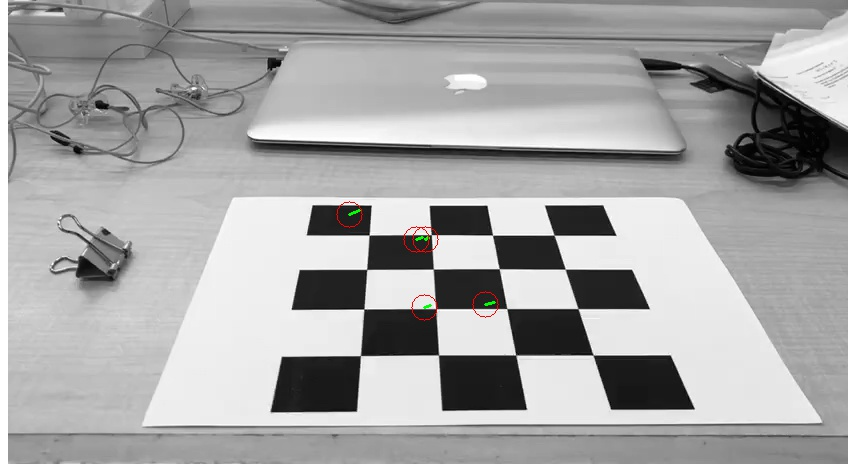
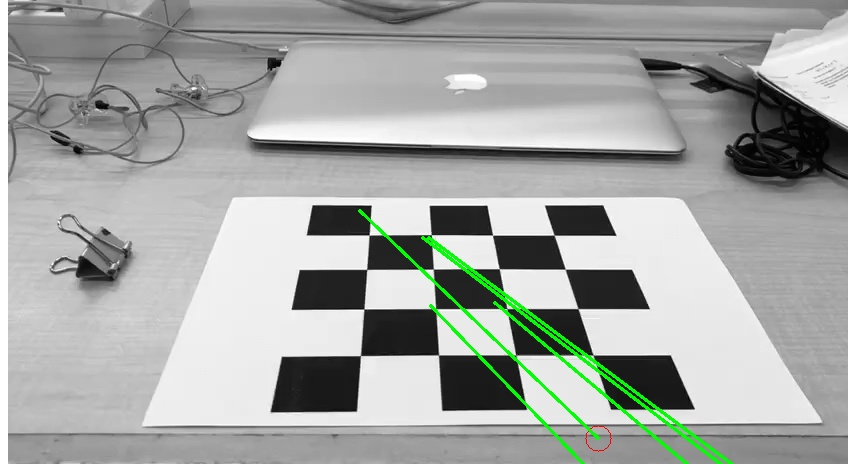
Output z

Changed region(s): [[0.3986, 0.4224, 0.8892, 1.0]]

diff --git a/LKTracker.py b/LKTracker.py
@@ -10,7 +10,7 @@ from sampling import down_sample
 # cv2.cv.CV_CAP_PROP_FPS
 CV_CAP_PROP_FPS = 5
 NUM_FEATURES = 5
-DOWN_RES_LIMIT = 2*64
+DOWN_RES_LIMIT = 64
 WINDOW = 13
 WW = int(round(WINDOW/2))
 THRESHOLD = 0.05
@@ -19,10 +19,16 @@ MAX_ITER = 10
 ## Given two images, track the features from one image to the next using LK Tracker and Pyramid
 def down_sample_feature_coords(feature):
     # got chance for error?
-    return [int(math.floor(feature[0]*1.0/2)), int(math.floor(feature[1]*1.0]/2))]
+    print("Downsampling Feature", feature)
+    output = [int(math.floor(feature[0]*1.0/2)), int(math.floor(feature[1]*1.0/2))]
+    print("Downsampled", output)
+    return output
 
 def up_sample_feature_coords(feature):
-    return [feature[0]*2, feature[1]*2]
+    print("Upsampling Feature", feature)
+    output = [feature[0]*2, feature[1]*2]
+    print("Upsampled", output)
+    return output
 
 # Pyramid
 def get_feature_coords_for_next_frame_iterative(prev_frame, next_frame, prev_features):
@@ -35,16 +41,21 @@ def get_feature_coords_for_next_frame_iterative(prev_frame, next_frame, prev_fea
     # Stores the prev_frames as they are downsampled
     prev_frames = [prev_frame]
     # Stores the next_frames as they are downsampled
-    next_frame = [next_frame]
+    next_frames = [next_frame]
     # Stores the features as they are downsampled
     features = [prev_features]
 
     # Downsample up the pyramid
-    while prev_frame_res_row > DOWN_RES_LIMIT:
+    i = 0
+    while frame_res_row > DOWN_RES_LIMIT:
         prev_frame_small = down_sample(prev_frame)
         next_frame_small = down_sample(next_frame)
-        prev_frame.append(prev_frame_small)
-        next_frame.append(next_frame_small)
+        cv2.imwrite('downsample/prev' + str(i) + '.jpg', prev_frame_small)
+        cv2.imwrite('downsample/next' + str(i) + '.jpg', next_frame_small)
+        print("Prev Frame size:", prev_frame_small.shape[0])
+        print("Next Frame size:", next_frame_small.shape[0])
+        prev_frames.append(prev_frame_small)
+        next_frames.append(next_frame_small)
 
         down_sampled_features = [down_sample_feature_coords(feature) for feature in prev_features]
         features.append(down_sampled_features)
@@ -53,28 +64,32 @@ def get_feature_coords_for_next_frame_iterative(prev_frame, next_frame, prev_fea
         prev_frame = prev_frame_small
         next_frame = next_frame_small
         prev_features = down_sampled_features
-        prev_frame_res_row = prev_frame_small.shape[0]
-
+        frame_res_row = prev_frame_small.shape[0]
+        i += 1
 
     ## LKTrack down the pyramid
+    upsampled_features_plus_delta = None
+    Z = None
 
     # First Iteration
     prev_frame = prev_frames[-1]
     next_frame = next_frames[-1]
     prev_features = features[-1]
-    features_plus_delta = LKTracker(prev_frame, next_frame, prev_features, prev_features)
+    features_plus_delta, Z = LKTracker(prev_frame, next_frame, prev_features, prev_features)
     upsampled_features_plus_delta = [up_sample_feature_coords(feature) for feature in features_plus_delta]
 
+    print("Num of prev_frames:", len(prev_frames))
     for i in range(len(prev_frames)-2,-1,-1):
+        print("----INDEX----", i)
         prev_frame = prev_frames[i]
         next_frame = next_frames[i]
         prev_features = features[i]
-        features_plus_delta = LKTracker(prev_frame, next_frame, prev_features, upsampled_features_plus_delta)
+        features_plus_delta, Z = LKTracker(prev_frame, next_frame, prev_features, upsampled_features_plus_delta)
         upsampled_features_plus_delta = [up_sample_feature_coords(feature) for feature in features_plus_delta]
 
-    return upsampled_features_plus_delta
+    return upsampled_features_plus_delta, Z
 
-def get_feature_coords_for_next_frame(prev_frame, next_frame, prev_features):
+def get_feature_coords_for_next_frame_recursive(prev_frame, next_frame, prev_features):
     prev_frame = prev_frame.astype('int16')
     next_frame = next_frame.astype('int16')
     frame_res_row = prev_frame.shape[0]
@@ -305,7 +320,13 @@ def test_LKTracker():
     cv2.imwrite('im1features.jpg', color_frame)
     # with open('features.pickle', 'wb') as output:
     #     pickle.dump(features, output, pickle.HIGHEST_PROTOCOL)
-    next_features,z = LKTracker(frame0, frame1, features, features)
+
+    # LKTracker Without Pyramid
+    # next_features,z = LKTracker(frame0, frame1, features, features)
+
+    # LKTracker With Pyramid
+    next_features,z = get_feature_coords_for_next_frame_iterative(frame0, frame1, features)
+
     print(next_features)
     print(z[0])
     color_frame = cv2.cvtColor(frame1, cv2.COLOR_GRAY2RGB)
